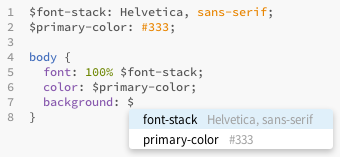
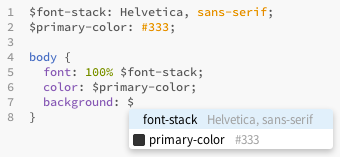
Auto complete now shows a color swatch if the value is a valid color.

diff --git a/thirdparty/tinycolor-min.js b/thirdparty/tinycolor-min.js
@@ -1,0 +1,4 @@
+// TinyColor v1.1.1
+// https://github.com/bgrins/TinyColor
+// 2014-12-20, Brian Grinstead, MIT License
+!function(){function inputToRGB(color){var rgb={r:0,g:0,b:0},a=1,ok=!1,format=!1;return"string"==typeof color&&(color=stringInputToObject(color)),"object"==typeof color&&(color.hasOwnProperty("r")&&color.hasOwnProperty("g")&&color.hasOwnProperty("b")?(rgb=rgbToRgb(color.r,color.g,color.b),ok=!0,format="%"===String(color.r).substr(-1)?"prgb":"rgb"):color.hasOwnProperty("h")&&color.hasOwnProperty("s")&&color.hasOwnProperty("v")?(color.s=convertToPercentage(color.s),color.v=convertToPercentage(color.v),rgb=hsvToRgb(color.h,color.s,color.v),ok=!0,format="hsv"):color.hasOwnProperty("h")&&color.hasOwnProperty("s")&&color.hasOwnProperty("l")&&(color.s=convertToPercentage(color.s),color.l=convertToPercentage(color.l),rgb=hslToRgb(color.h,color.s,color.l),ok=!0,format="hsl"),color.hasOwnProperty("a")&&(a=color.a)),a=boundAlpha(a),{ok:ok,format:color.format||format,r:mathMin(255,mathMax(rgb.r,0)),g:mathMin(255,mathMax(rgb.g,0)),b:mathMin(255,mathMax(rgb.b,0)),a:a}}function rgbToRgb(r,g,b){return{r:255*bound01(r,255),g:255*bound01(g,255),b:255*bound01(b,255)}}function rgbToHsl(r,g,b){r=bound01(r,255),g=bound01(g,255),b=bound01(b,255);var h,s,max=mathMax(r,g,b),min=mathMin(r,g,b),l=(max+min)/2;if(max==min)h=s=0;else{var d=max-min;switch(s=l>.5?d/(2-max-min):d/(max+min),max){case r:h=(g-b)/d+(b>g?6:0);break;case g:h=(b-r)/d+2;break;case b:h=(r-g)/d+4}h/=6}return{h:h,s:s,l:l}}function hslToRgb(h,s,l){function hue2rgb(p,q,t){return 0>t&&(t+=1),t>1&&(t-=1),1/6>t?p+6*(q-p)*t:.5>t?q:2/3>t?p+(q-p)*(2/3-t)*6:p}var r,g,b;if(h=bound01(h,360),s=bound01(s,100),l=bound01(l,100),0===s)r=g=b=l;else{var q=.5>l?l*(1+s):l+s-l*s,p=2*l-q;r=hue2rgb(p,q,h+1/3),g=hue2rgb(p,q,h),b=hue2rgb(p,q,h-1/3)}return{r:255*r,g:255*g,b:255*b}}function rgbToHsv(r,g,b){r=bound01(r,255),g=bound01(g,255),b=bound01(b,255);var h,s,max=mathMax(r,g,b),min=mathMin(r,g,b),v=max,d=max-min;if(s=0===max?0:d/max,max==min)h=0;else{switch(max){case r:h=(g-b)/d+(b>g?6:0);break;case g:h=(b-r)/d+2;break;case b:h=(r-g)/d+4}h/=6}return{h:h,s:s,v:v}}function hsvToRgb(h,s,v){h=6*bound01(h,360),s=bound01(s,100),v=bound01(v,100);var i=math.floor(h),f=h-i,p=v*(1-s),q=v*(1-f*s),t=v*(1-(1-f)*s),mod=i%6,r=[v,q,p,p,t,v][mod],g=[t,v,v,q,p,p][mod],b=[p,p,t,v,v,q][mod];return{r:255*r,g:255*g,b:255*b}}function rgbToHex(r,g,b,allow3Char){var hex=[pad2(mathRound(r).toString(16)),pad2(mathRound(g).toString(16)),pad2(mathRound(b).toString(16))];return allow3Char&&hex[0].charAt(0)==hex[0].charAt(1)&&hex[1].charAt(0)==hex[1].charAt(1)&&hex[2].charAt(0)==hex[2].charAt(1)?hex[0].charAt(0)+hex[1].charAt(0)+hex[2].charAt(0):hex.join("")}function rgbaToHex(r,g,b,a){var hex=[pad2(convertDecimalToHex(a)),pad2(mathRound(r).toString(16)),pad2(mathRound(g).toString(16)),pad2(mathRound(b).toString(16))];return hex.join("")}function desaturate(color,amount){amount=0===amount?0:amount||10;var hsl=tinycolor(color).toHsl();return hsl.s-=amount/100,hsl.s=clamp01(hsl.s),tinycolor(hsl)}function saturate(color,amount){amount=0===amount?0:amount||10;var hsl=tinycolor(color).toHsl();return hsl.s+=amount/100,hsl.s=clamp01(hsl.s),tinycolor(hsl)}function greyscale(color){return tinycolor(color).desaturate(100)}function lighten(color,amount){amount=0===amount?0:amount||10;var hsl=tinycolor(color).toHsl();return hsl.l+=amount/100,hsl.l=clamp01(hsl.l),tinycolor(hsl)}function brighten(color,amount){amount=0===amount?0:amount||10;var rgb=tinycolor(color).toRgb();return rgb.r=mathMax(0,mathMin(255,rgb.r-mathRound(255*-(amount/100)))),rgb.g=mathMax(0,mathMin(255,rgb.g-mathRound(255*-(amount/100)))),rgb.b=mathMax(0,mathMin(255,rgb.b-mathRound(255*-(amount/100)))),tinycolor(rgb)}function darken(color,amount){amount=0===amount?0:amount||10;var hsl=tinycolor(color).toHsl();return hsl.l-=amount/100,hsl.l=clamp01(hsl.l),tinycolor(hsl)}function spin(color,amount){var hsl=tinycolor(color).toHsl(),hue=(mathRound(hsl.h)+amount)%360;return hsl.h=0>hue?360+hue:hue,tinycolor(hsl)}function complement(color){var hsl=tinycolor(color).toHsl();return hsl.h=(hsl.h+180)%360,tinycolor(hsl)}function triad(color){var hsl=tinycolor(color).toHsl(),h=hsl.h;return[tinycolor(color),tinycolor({h:(h+120)%360,s:hsl.s,l:hsl.l}),tinycolor({h:(h+240)%360,s:hsl.s,l:hsl.l})]}function tetrad(color){var hsl=tinycolor(color).toHsl(),h=hsl.h;return[tinycolor(color),tinycolor({h:(h+90)%360,s:hsl.s,l:hsl.l}),tinycolor({h:(h+180)%360,s:hsl.s,l:hsl.l}),tinycolor({h:(h+270)%360,s:hsl.s,l:hsl.l})]}function splitcomplement(color){var hsl=tinycolor(color).toHsl(),h=hsl.h;return[tinycolor(color),tinycolor({h:(h+72)%360,s:hsl.s,l:hsl.l}),tinycolor({h:(h+216)%360,s:hsl.s,l:hsl.l})]}function analogous(color,results,slices){results=results||6,slices=slices||30;var hsl=tinycolor(color).toHsl(),part=360/slices,ret=[tinycolor(color)];for(hsl.h=(hsl.h-(part*results>>1)+720)%360;--results;)hsl.h=(hsl.h+part)%360,ret.push(tinycolor(hsl));return ret}function monochromatic(color,results){results=results||6;for(var hsv=tinycolor(color).toHsv(),h=hsv.h,s=hsv.s,v=hsv.v,ret=[],modification=1/results;results--;)ret.push(tinycolor({h:h,s:s,v:v})),v=(v+modification)%1;return ret}function flip(o){var flipped={};for(var i in o)o.hasOwnProperty(i)&&(flipped[o[i]]=i);return flipped}function boundAlpha(a){return a=parseFloat(a),(isNaN(a)||0>a||a>1)&&(a=1),a}function bound01(n,max){isOnePointZero(n)&&(n="100%");var processPercent=isPercentage(n);return n=mathMin(max,mathMax(0,parseFloat(n))),processPercent&&(n=parseInt(n*max,10)/100),math.abs(n-max)<1e-6?1:n%max/parseFloat(max)}function clamp01(val){return mathMin(1,mathMax(0,val))}function parseIntFromHex(val){return parseInt(val,16)}function isOnePointZero(n){return"string"==typeof n&&-1!=n.indexOf(".")&&1===parseFloat(n)}function isPercentage(n){return"string"==typeof n&&-1!=n.indexOf("%")}function pad2(c){return 1==c.length?"0"+c:""+c}function convertToPercentage(n){return 1>=n&&(n=100*n+"%"),n}function convertDecimalToHex(d){return Math.round(255*parseFloat(d)).toString(16)}function convertHexToDecimal(h){return parseIntFromHex(h)/255}function stringInputToObject(color){color=color.replace(trimLeft,"").replace(trimRight,"").toLowerCase();var named=!1;if(names[color])color=names[color],named=!0;else if("transparent"==color)return{r:0,g:0,b:0,a:0,format:"name"};var match;return(match=matchers.rgb.exec(color))?{r:match[1],g:match[2],b:match[3]}:(match=matchers.rgba.exec(color))?{r:match[1],g:match[2],b:match[3],a:match[4]}:(match=matchers.hsl.exec(color))?{h:match[1],s:match[2],l:match[3]}:(match=matchers.hsla.exec(color))?{h:match[1],s:match[2],l:match[3],a:match[4]}:(match=matchers.hsv.exec(color))?{h:match[1],s:match[2],v:match[3]}:(match=matchers.hsva.exec(color))?{h:match[1],s:match[2],v:match[3],a:match[4]}:(match=matchers.hex8.exec(color))?{a:convertHexToDecimal(match[1]),r:parseIntFromHex(match[2]),g:parseIntFromHex(match[3]),b:parseIntFromHex(match[4]),format:named?"name":"hex8"}:(match=matchers.hex6.exec(color))?{r:parseIntFromHex(match[1]),g:parseIntFromHex(match[2]),b:parseIntFromHex(match[3]),format:named?"name":"hex"}:(match=matchers.hex3.exec(color))?{r:parseIntFromHex(match[1]+""+match[1]),g:parseIntFromHex(match[2]+""+match[2]),b:parseIntFromHex(match[3]+""+match[3]),format:named?"name":"hex"}:!1}var trimLeft=/^[\s,#]+/,trimRight=/\s+$/,tinyCounter=0,math=Math,mathRound=math.round,mathMin=math.min,mathMax=math.max,mathRandom=math.random,tinycolor=function tinycolor(color,opts){if(color=color?color:"",opts=opts||{},color instanceof tinycolor)return color;if(!(this instanceof tinycolor))return new tinycolor(color,opts);var rgb=inputToRGB(color);this._originalInput=color,this._r=rgb.r,this._g=rgb.g,this._b=rgb.b,this._a=rgb.a,this._roundA=mathRound(100*this._a)/100,this._format=opts.format||rgb.format,this._gradientType=opts.gradientType,this._r<1&&(this._r=mathRound(this._r)),this._g<1&&(this._g=mathRound(this._g)),this._b<1&&(this._b=mathRound(this._b)),this._ok=rgb.ok,this._tc_id=tinyCounter++};tinycolor.prototype={isDark:function(){return this.getBrightness()<128},isLight:function(){return!this.isDark()},isValid:function(){return this._ok},getOriginalInput:function(){return this._originalInput},getFormat:function(){return this._format},getAlpha:function(){return this._a},getBrightness:function(){var rgb=this.toRgb();return(299*rgb.r+587*rgb.g+114*rgb.b)/1e3},setAlpha:function(value){return this._a=boundAlpha(value),this._roundA=mathRound(100*this._a)/100,this},toHsv:function(){var hsv=rgbToHsv(this._r,this._g,this._b);return{h:360*hsv.h,s:hsv.s,v:hsv.v,a:this._a}},toHsvString:function(){var hsv=rgbToHsv(this._r,this._g,this._b),h=mathRound(360*hsv.h),s=mathRound(100*hsv.s),v=mathRound(100*hsv.v);return 1==this._a?"hsv("+h+", "+s+"%, "+v+"%)":"hsva("+h+", "+s+"%, "+v+"%, "+this._roundA+")"},toHsl:function(){var hsl=rgbToHsl(this._r,this._g,this._b);return{h:360*hsl.h,s:hsl.s,l:hsl.l,a:this._a}},toHslString:function(){var hsl=rgbToHsl(this._r,this._g,this._b),h=mathRound(360*hsl.h),s=mathRound(100*hsl.s),l=mathRound(100*hsl.l);return 1==this._a?"hsl("+h+", "+s+"%, "+l+"%)":"hsla("+h+", "+s+"%, "+l+"%, "+this._roundA+")"},toHex:function(allow3Char){return rgbToHex(this._r,this._g,this._b,allow3Char)},toHexString:function(allow3Char){return"#"+this.toHex(allow3Char)},toHex8:function(){return rgbaToHex(this._r,this._g,this._b,this._a)},toHex8String:function(){return"#"+this.toHex8()},toRgb:function(){return{r:mathRound(this._r),g:mathRound(this._g),b:mathRound(this._b),a:this._a}},toRgbString:function(){return 1==this._a?"rgb("+mathRound(this._r)+", "+mathRound(this._g)+", "+mathRound(this._b)+")":"rgba("+mathRound(this._r)+", "+mathRound(this._g)+", "+mathRound(this._b)+", "+this._roundA+")"},toPercentageRgb:function(){return{r:mathRound(100*bound01(this._r,255))+"%",g:mathRound(100*bound01(this._g,255))+"%",b:mathRound(100*bound01(this._b,255))+"%",a:this._a}},toPercentageRgbString:function(){return 1==this._a?"rgb("+mathRound(100*bound01(this._r,255))+"%, "+mathRound(100*bound01(this._g,255))+"%, "+mathRound(100*bound01(this._b,255))+"%)":"rgba("+mathRound(100*bound01(this._r,255))+"%, "+mathRound(100*bound01(this._g,255))+"%, "+mathRound(100*bound01(this._b,255))+"%, "+this._roundA+")"},toName:function(){return 0===this._a?"transparent":this._a<1?!1:hexNames[rgbToHex(this._r,this._g,this._b,!0)]||!1},toFilter:function(secondColor){var hex8String="#"+rgbaToHex(this._r,this._g,this._b,this._a),secondHex8String=hex8String,gradientType=this._gradientType?"GradientType = 1, ":"";if(secondColor){var s=tinycolor(secondColor);secondHex8String=s.toHex8String()}return"progid:DXImageTransform.Microsoft.gradient("+gradientType+"startColorstr="+hex8String+",endColorstr="+secondHex8String+")"},toString:function(format){var formatSet=!!format;format=format||this._format;var formattedString=!1,hasAlpha=this._a<1&&this._a>=0,needsAlphaFormat=!formatSet&&hasAlpha&&("hex"===format||"hex6"===format||"hex3"===format||"name"===format);return needsAlphaFormat?"name"===format&&0===this._a?this.toName():this.toRgbString():("rgb"===format&&(formattedString=this.toRgbString()),"prgb"===format&&(formattedString=this.toPercentageRgbString()),("hex"===format||"hex6"===format)&&(formattedString=this.toHexString()),"hex3"===format&&(formattedString=this.toHexString(!0)),"hex8"===format&&(formattedString=this.toHex8String()),"name"===format&&(formattedString=this.toName()),"hsl"===format&&(formattedString=this.toHslString()),"hsv"===format&&(formattedString=this.toHsvString()),formattedString||this.toHexString())},_applyModification:function(fn,args){var color=fn.apply(null,[this].concat([].slice.call(args)));return this._r=color._r,this._g=color._g,this._b=color._b,this.setAlpha(color._a),this},lighten:function(){return this._applyModification(lighten,arguments)},brighten:function(){return this._applyModification(brighten,arguments)},darken:function(){return this._applyModification(darken,arguments)},desaturate:function(){return this._applyModification(desaturate,arguments)},saturate:function(){return this._applyModification(saturate,arguments)},greyscale:function(){return this._applyModification(greyscale,arguments)},spin:function(){return this._applyModification(spin,arguments)},_applyCombination:function(fn,args){return fn.apply(null,[this].concat([].slice.call(args)))},analogous:function(){return this._applyCombination(analogous,arguments)},complement:function(){return this._applyCombination(complement,arguments)},monochromatic:function(){return this._applyCombination(monochromatic,arguments)},splitcomplement:function(){return this._applyCombination(splitcomplement,arguments)},triad:function(){return this._applyCombination(triad,arguments)},tetrad:function(){return this._applyCombination(tetrad,arguments)}},tinycolor.fromRatio=function(color,opts){if("object"==typeof color){var newColor={};for(var i in color)color.hasOwnProperty(i)&&(newColor[i]="a"===i?color[i]:convertToPercentage(color[i]));color=newColor}return tinycolor(color,opts)},tinycolor.equals=function(color1,color2){return color1&&color2?tinycolor(color1).toRgbString()==tinycolor(color2).toRgbString():!1},tinycolor.random=function(){return tinycolor.fromRatio({r:mathRandom(),g:mathRandom(),b:mathRandom()})},tinycolor.mix=function(color1,color2,amount){amount=0===amount?0:amount||50;var w1,rgb1=tinycolor(color1).toRgb(),rgb2=tinycolor(color2).toRgb(),p=amount/100,w=2*p-1,a=rgb2.a-rgb1.a;w1=w*a==-1?w:(w+a)/(1+w*a),w1=(w1+1)/2;var w2=1-w1,rgba={r:rgb2.r*w1+rgb1.r*w2,g:rgb2.g*w1+rgb1.g*w2,b:rgb2.b*w1+rgb1.b*w2,a:rgb2.a*p+rgb1.a*(1-p)};return tinycolor(rgba)},tinycolor.readability=function(color1,color2){var c1=tinycolor(color1),c2=tinycolor(color2),rgb1=c1.toRgb(),rgb2=c2.toRgb(),brightnessA=c1.getBrightness(),brightnessB=c2.getBrightness(),colorDiff=Math.max(rgb1.r,rgb2.r)-Math.min(rgb1.r,rgb2.r)+Math.max(rgb1.g,rgb2.g)-Math.min(rgb1.g,rgb2.g)+Math.max(rgb1.b,rgb2.b)-Math.min(rgb1.b,rgb2.b);return{brightness:Math.abs(brightnessA-brightnessB),color:colorDiff}},tinycolor.isReadable=function(color1,color2){var readability=tinycolor.readability(color1,color2);return readability.brightness>125&&readability.color>500},tinycolor.mostReadable=function(baseColor,colorList){for(var bestColor=null,bestScore=0,bestIsReadable=!1,i=0;i<colorList.length;i++){var readability=tinycolor.readability(baseColor,colorList[i]),readable=readability.brightness>125&&readability.color>500,score=3*(readability.brightness/125)+readability.color/500;(readable&&!bestIsReadable||readable&&bestIsReadable&&score>bestScore||!readable&&!bestIsReadable&&score>bestScore)&&(bestIsReadable=readable,bestScore=score,bestColor=tinycolor(colorList[i]))}return bestColor};var names=tinycolor.names={aliceblue:"f0f8ff",antiquewhite:"faebd7",aqua:"0ff",aquamarine:"7fffd4",azure:"f0ffff",beige:"f5f5dc",bisque:"ffe4c4",black:"000",blanchedalmond:"ffebcd",blue:"00f",blueviolet:"8a2be2",brown:"a52a2a",burlywood:"deb887",burntsienna:"ea7e5d",cadetblue:"5f9ea0",chartreuse:"7fff00",chocolate:"d2691e",coral:"ff7f50",cornflowerblue:"6495ed",cornsilk:"fff8dc",crimson:"dc143c",cyan:"0ff",darkblue:"00008b",darkcyan:"008b8b",darkgoldenrod:"b8860b",darkgray:"a9a9a9",darkgreen:"006400",darkgrey:"a9a9a9",darkkhaki:"bdb76b",darkmagenta:"8b008b",darkolivegreen:"556b2f",darkorange:"ff8c00",darkorchid:"9932cc",darkred:"8b0000",darksalmon:"e9967a",darkseagreen:"8fbc8f",darkslateblue:"483d8b",darkslategray:"2f4f4f",darkslategrey:"2f4f4f",darkturquoise:"00ced1",darkviolet:"9400d3",deeppink:"ff1493",deepskyblue:"00bfff",dimgray:"696969",dimgrey:"696969",dodgerblue:"1e90ff",firebrick:"b22222",floralwhite:"fffaf0",forestgreen:"228b22",fuchsia:"f0f",gainsboro:"dcdcdc",ghostwhite:"f8f8ff",gold:"ffd700",goldenrod:"daa520",gray:"808080",green:"008000",greenyellow:"adff2f",grey:"808080",honeydew:"f0fff0",hotpink:"ff69b4",indianred:"cd5c5c",indigo:"4b0082",ivory:"fffff0",khaki:"f0e68c",lavender:"e6e6fa",lavenderblush:"fff0f5",lawngreen:"7cfc00",lemonchiffon:"fffacd",lightblue:"add8e6",lightcoral:"f08080",lightcyan:"e0ffff",lightgoldenrodyellow:"fafad2",lightgray:"d3d3d3",lightgreen:"90ee90",lightgrey:"d3d3d3",lightpink:"ffb6c1",lightsalmon:"ffa07a",lightseagreen:"20b2aa",lightskyblue:"87cefa",lightslategray:"789",lightslategrey:"789",lightsteelblue:"b0c4de",lightyellow:"ffffe0",lime:"0f0",limegreen:"32cd32",linen:"faf0e6",magenta:"f0f",maroon:"800000",mediumaquamarine:"66cdaa",mediumblue:"0000cd",mediumorchid:"ba55d3",mediumpurple:"9370db",mediumseagreen:"3cb371",mediumslateblue:"7b68ee",mediumspringgreen:"00fa9a",mediumturquoise:"48d1cc",mediumvioletred:"c71585",midnightblue:"191970",mintcream:"f5fffa",mistyrose:"ffe4e1",moccasin:"ffe4b5",navajowhite:"ffdead",navy:"000080",oldlace:"fdf5e6",olive:"808000",olivedrab:"6b8e23",orange:"ffa500",orangered:"ff4500",orchid:"da70d6",palegoldenrod:"eee8aa",palegreen:"98fb98",paleturquoise:"afeeee",palevioletred:"db7093",papayawhip:"ffefd5",peachpuff:"ffdab9",peru:"cd853f",pink:"ffc0cb",plum:"dda0dd",powderblue:"b0e0e6",purple:"800080",rebeccapurple:"663399",red:"f00",rosybrown:"bc8f8f",royalblue:"4169e1",saddlebrown:"8b4513",salmon:"fa8072",sandybrown:"f4a460",seagreen:"2e8b57",seashell:"fff5ee",sienna:"a0522d",silver:"c0c0c0",skyblue:"87ceeb",slateblue:"6a5acd",slategray:"708090",slategrey:"708090",snow:"fffafa",springgreen:"00ff7f",steelblue:"4682b4",tan:"d2b48c",teal:"008080",thistle:"d8bfd8",tomato:"ff6347",turquoise:"40e0d0",violet:"ee82ee",wheat:"f5deb3",white:"fff",whitesmoke:"f5f5f5",yellow:"ff0",yellowgreen:"9acd32"},hexNames=tinycolor.hexNames=flip(names),matchers=function(){var CSS_INTEGER="[-\\+]?\\d+%?",CSS_NUMBER="[-\\+]?\\d*\\.\\d+%?",CSS_UNIT="(?:"+CSS_NUMBER+")|(?:"+CSS_INTEGER+")",PERMISSIVE_MATCH3="[\\s|\\(]+("+CSS_UNIT+")[,|\\s]+("+CSS_UNIT+")[,|\\s]+("+CSS_UNIT+")\\s*\\)?",PERMISSIVE_MATCH4="[\\s|\\(]+("+CSS_UNIT+")[,|\\s]+("+CSS_UNIT+")[,|\\s]+("+CSS_UNIT+")[,|\\s]+("+CSS_UNIT+")\\s*\\)?";return{rgb:new RegExp("rgb"+PERMISSIVE_MATCH3),rgba:new RegExp("rgba"+PERMISSIVE_MATCH4),hsl:new RegExp("hsl"+PERMISSIVE_MATCH3),hsla:new RegExp("hsla"+PERMISSIVE_MATCH4),hsv:new RegExp("hsv"+PERMISSIVE_MATCH3),hsva:new RegExp("hsva"+PERMISSIVE_MATCH4),hex3:/^([0-9a-fA-F]{1})([0-9a-fA-F]{1})([0-9a-fA-F]{1})$/,hex6:/^([0-9a-fA-F]{2})([0-9a-fA-F]{2})([0-9a-fA-F]{2})$/,hex8:/^([0-9a-fA-F]{2})([0-9a-fA-F]{2})([0-9a-fA-F]{2})([0-9a-fA-F]{2})$/}}();"undefined"!=typeof module&&module.exports?module.exports=tinycolor:"function"==typeof define&&define.amd?define(function(){return tinycolor}):window.tinycolor=tinycolor}();

diff --git a/main.js b/main.js
@@ -27,15 +27,19 @@
 define(function (require, exports, module) {
     "use strict";
 
+    // Brackets modules
     var AppInit = brackets.getModule("utils/AppInit"),
         CodeHintManager = brackets.getModule("editor/CodeHintManager"),
         DocumentManager = brackets.getModule("document/DocumentManager"),
         LanguageManager = brackets.getModule("language/LanguageManager"),
         ProjectManager = brackets.getModule("project/ProjectManager"),
         FileUtils = brackets.getModule("file/FileUtils"),
-        Async = brackets.getModule("utils/Async");
+        Async = brackets.getModule("utils/Async"),
+        ColorUtils = brackets.getModule("utils/ColorUtils");
 
-
+    // Extension's modules
+    var TinyColor = require("thirdparty/tinycolor-min");    
+    
     // All file extensions that are supported
     var fileextensions = ["sass", "scss"];
 
@@ -340,11 +344,23 @@ define(function (require, exports, module) {
         this.hints = matches.map(function (match) {
             return match[1];
         });
+      
 
         // Create the hintsHTML array which will be shown to the
         // user. It has a preview of what the variable is set to.
         this.hintsHTML = matches.map(function (match) {
-            return match[1] + "<span style='color:#a0a0a0; margin-left: 10px'>" + match[2] + "</span>";
+            
+            var matchValue = TinyColor(match[2]);
+            var colorTemplate = '';
+            
+            //Check if value is a valid color
+            //Using Brackets default swatch class for styling
+            if (TinyColor(matchValue).isValid()){
+                colorTemplate = "<span class='color-swatch' style='background-color:" + matchValue.toHexString() + ";'></span>";
+            }                
+            
+            return match[1] + colorTemplate + "<span style='color:#a0a0a0; margin-left: 10px'>" + match[2] + "</span>";
+            
         });
 
     };
